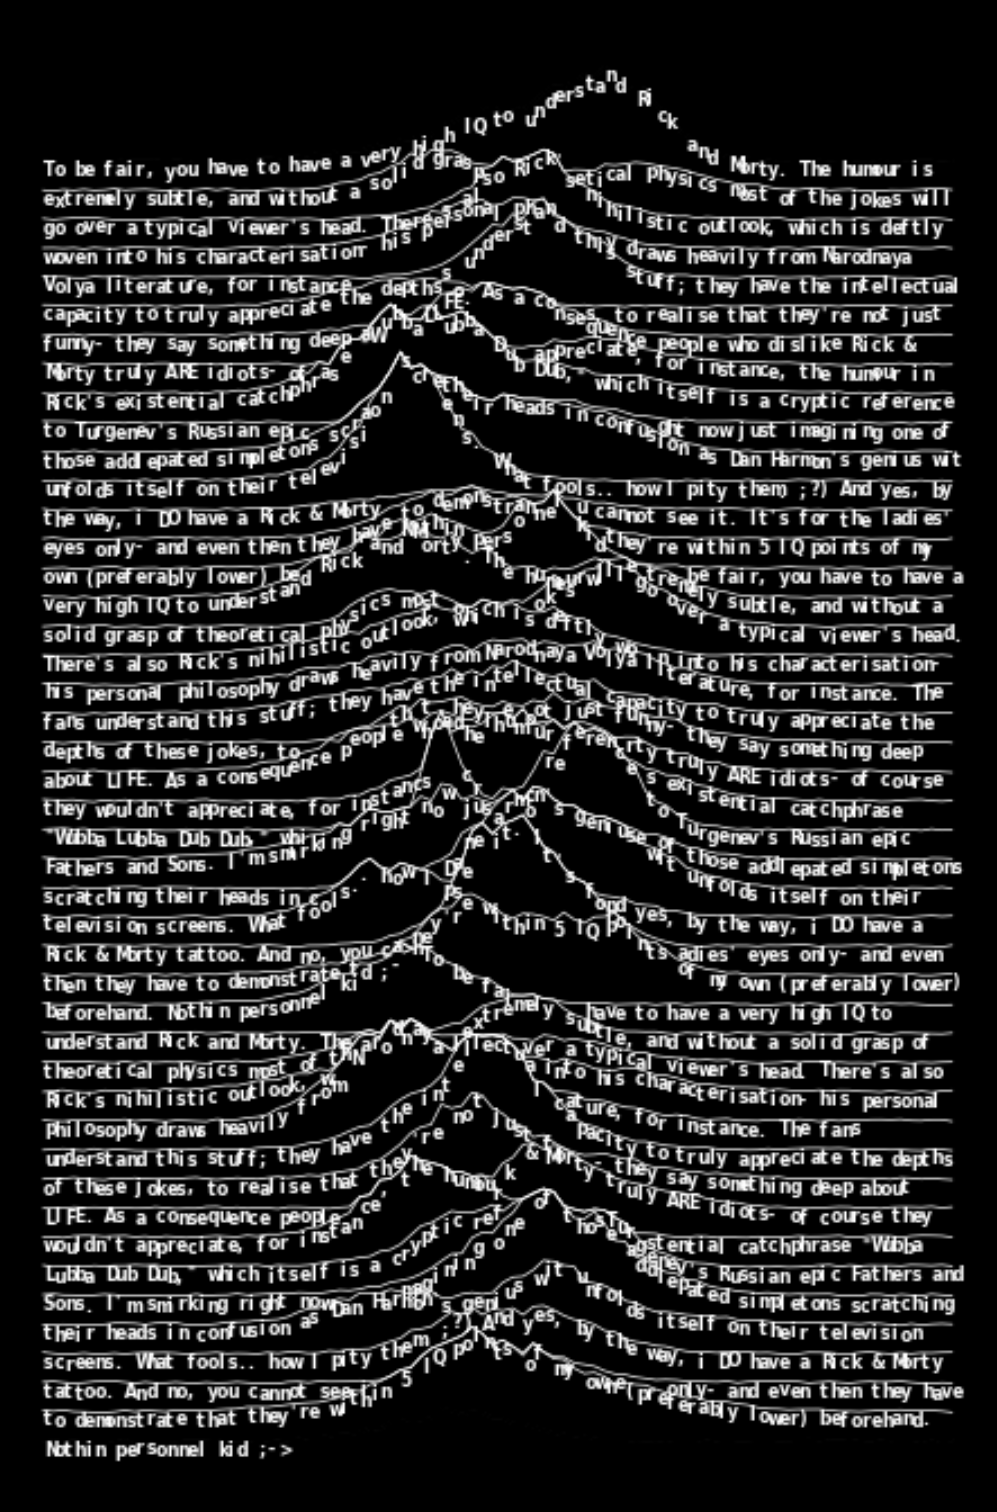
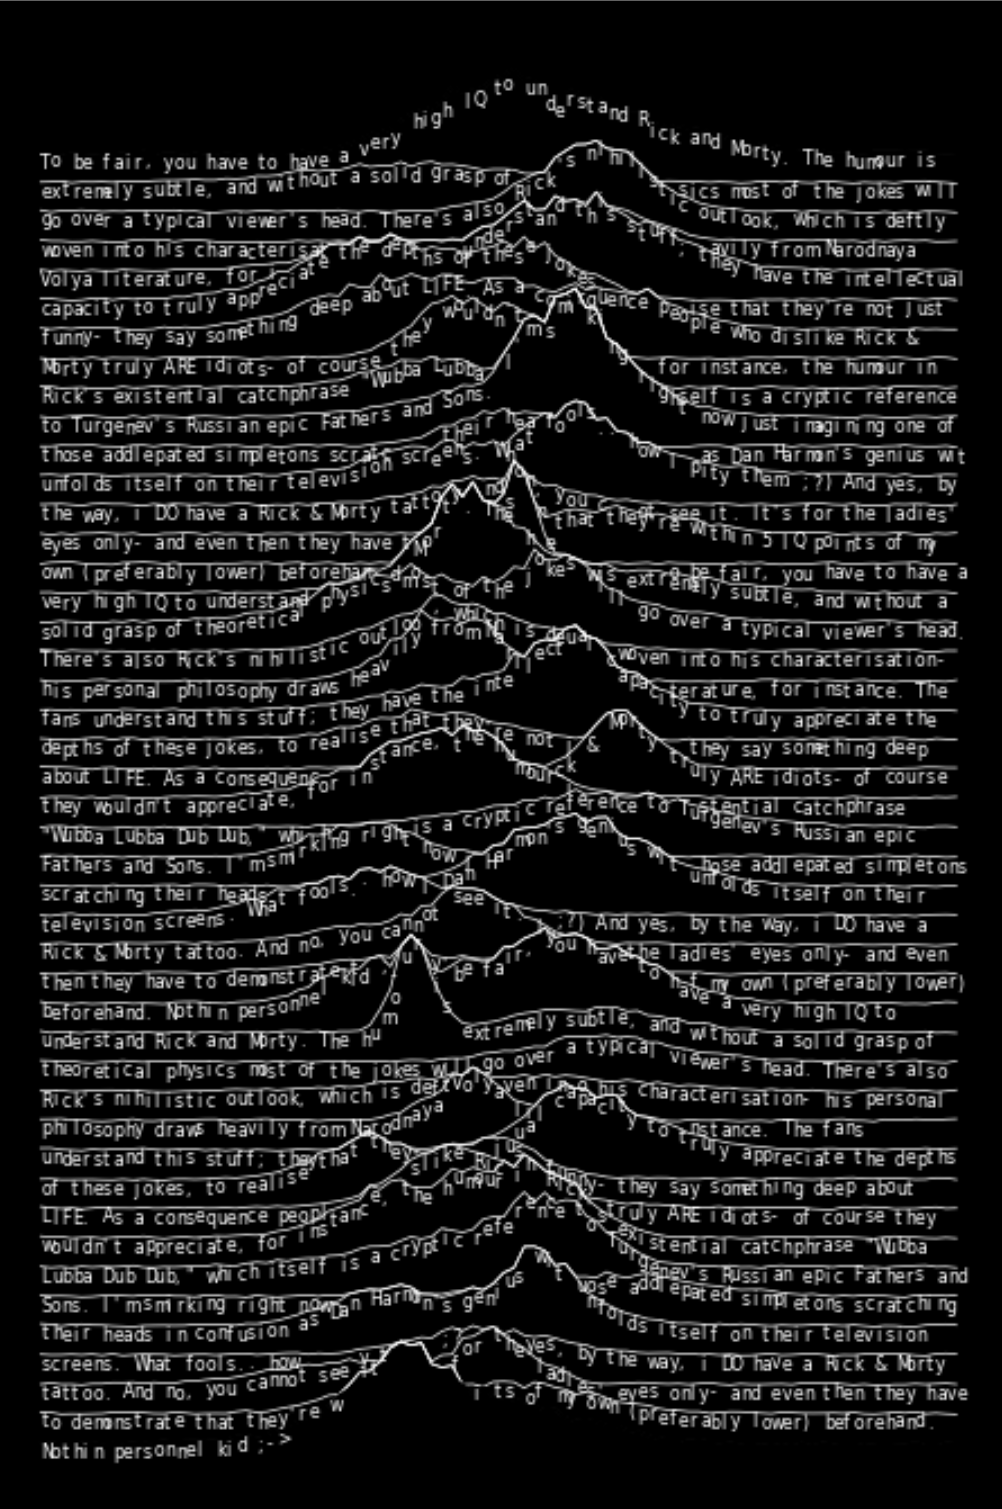
added ascii formatter, images

diff --git a/lucs_tools/demos/formatting/joyful.py b/lucs_tools/demos/formatting/joyful.py
@@ -1,22 +1,23 @@
 import lucs_tools
+import numpy as np
 
-# get an input string (single string, no returns!)
-testfile = "{}/data/formatting/porto.txt".format(lucs_tools.MODULE_PATH)
-input_string = open(testfile).read()
-input_string.replace('\n', '')
-print('INPUT:')
-print(input_string)
-print()
 
 # call lucs_tools.formatting.joyful.joy_text to plot the string
-lucs_tools.formatting.joyful.joy_text(
-    input_string,
-    90,
-    fontsize=5.5,
-    weight='light',
-    subaspect=2.5,
-    factor=3.
-)
+# lucs_tools.formatting.joyful.text(
+#     input_string,
+#     90,
+#     fontsize=5.5,
+#     weight='light',
+#     factor=3.,
+#     write_lines=True,
+# )
 
-# call lucs_tools.formatting.joyful.joy_plot to plot a standard joyd cover
-# lucs_tools.formatting.joyful.joy_plot(10, 100)
+# standard joy division cover recreation:
+lucs_tools.formatting.joyful.lines(90, size=(400,1000))
+
+# lucs_tools.formatting.joyful.joy_text_new(text, size=(500,600), spacing=4., fontsize=9., write_lines=False, weight='normal')
+
+
+# ascii formatting; returns a loooong string you can view, from an original seed string (cuts/loops if needed)
+# text = """it was a good run. A new coach to soccer that coaching rec ed would realize if you're down 3-0 in the first 25 mins of the game, you need to change your strategy. Scolari and the rest of the coaching staff including perreira will never be apart of the brasilian futbol federation again. There were so many players to choose. He chose jo and fred one of the two most lazy ass strikers to be his "offense". Then I realize that  pato is 24 why not play him. How about fabiano or even coutinho or damiao. It's crazy, he made a team centered around neymar. Kaka ronaldinho or robinho should of made the team. Congrats on germany, if argentina goes to the final they better not fuck up man. Because that will be a nightmare if the argentines win in brasil. GO NEUR AND SHURLLE"""
+# print(lucs_tools.formatting.joyful.ascii(text, 300, 60, 0, 2))
